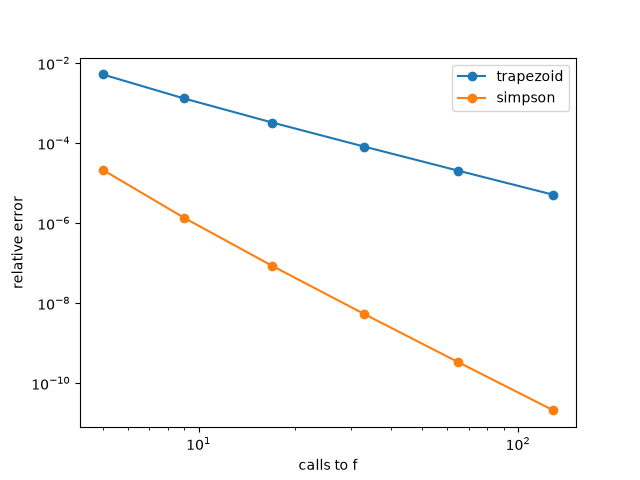
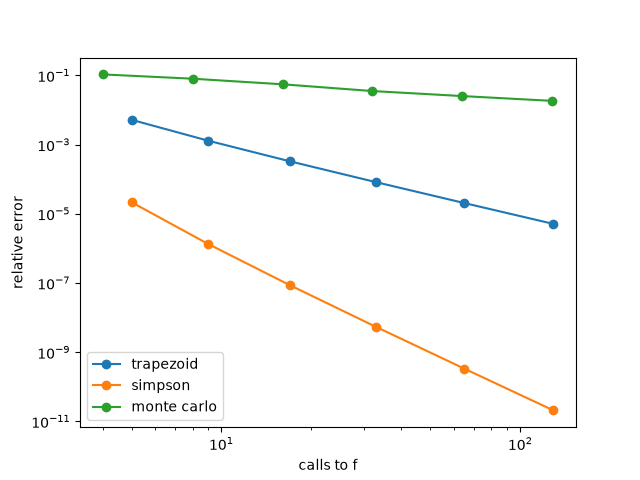
Average Monte Carlo error over 100 seeds and add it to the plot

diff --git a/experiments.py b/experiments.py
@@ -33,16 +33,25 @@ for n in [4, 8, 16, 32, 64, 128]:
     simp_calls.append(calls)
     simp_errors.append(error)
 
+
+mc_calls = []
+mc_errors = []
 for n in [4, 8, 16, 32, 64, 128]:
-    calls = 0
-    random.seed(0)
-    estimate = monte_carlo(counted_exponential, 0, 1, n)
-    error = abs(estimate - exact) / exact
-    print(f"monte carlo calls={calls} estimate={estimate:.6f} error={error:.2e}")
+    total_error = 0
+    for seed in range(100):
+       calls = 0
+       random.seed(seed)
+       estimate = monte_carlo(counted_exponential, 0, 1, n)
+       total_error = total_error + abs(estimate - exact) / exact
+    average_error = total_error / 100
+    print(f"monte carlo calls={calls} average error={average_error:.2e}")
+    mc_calls.append(calls)
+    mc_errors.append(average_error)
 
 
 plt.loglog(trap_calls, trap_errors, "o-", label="trapezoid")
 plt.loglog(simp_calls, simp_errors, "o-", label="simpson")
+plt.loglog(mc_calls, mc_errors, "o-", label="monte carlo")
 plt.xlabel("calls to f")
 plt.ylabel("relative error")
 plt.legend()
